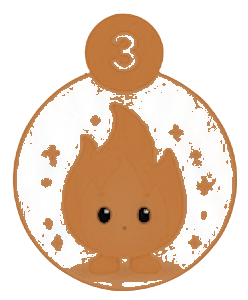
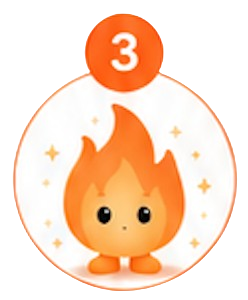
Drop the bronze tint from the 3rd-place badge
Use the original orange 3rd-place drawing again so it matches the
rest of the podium set.

diff --git a/src/screens/Challenges.tsx b/src/screens/Challenges.tsx
@@ -23,7 +23,7 @@ const podiumBadges: Record<1 | 2 | 3, { src: string; alt: string; bar: string }>
   },
   3: {
     src: '/images/podium-3.png',
-    alt: '3rd place bronze flame',
+    alt: '3rd place flame',
     bar: 'bg-[#CD7F32]',
   },
 };
